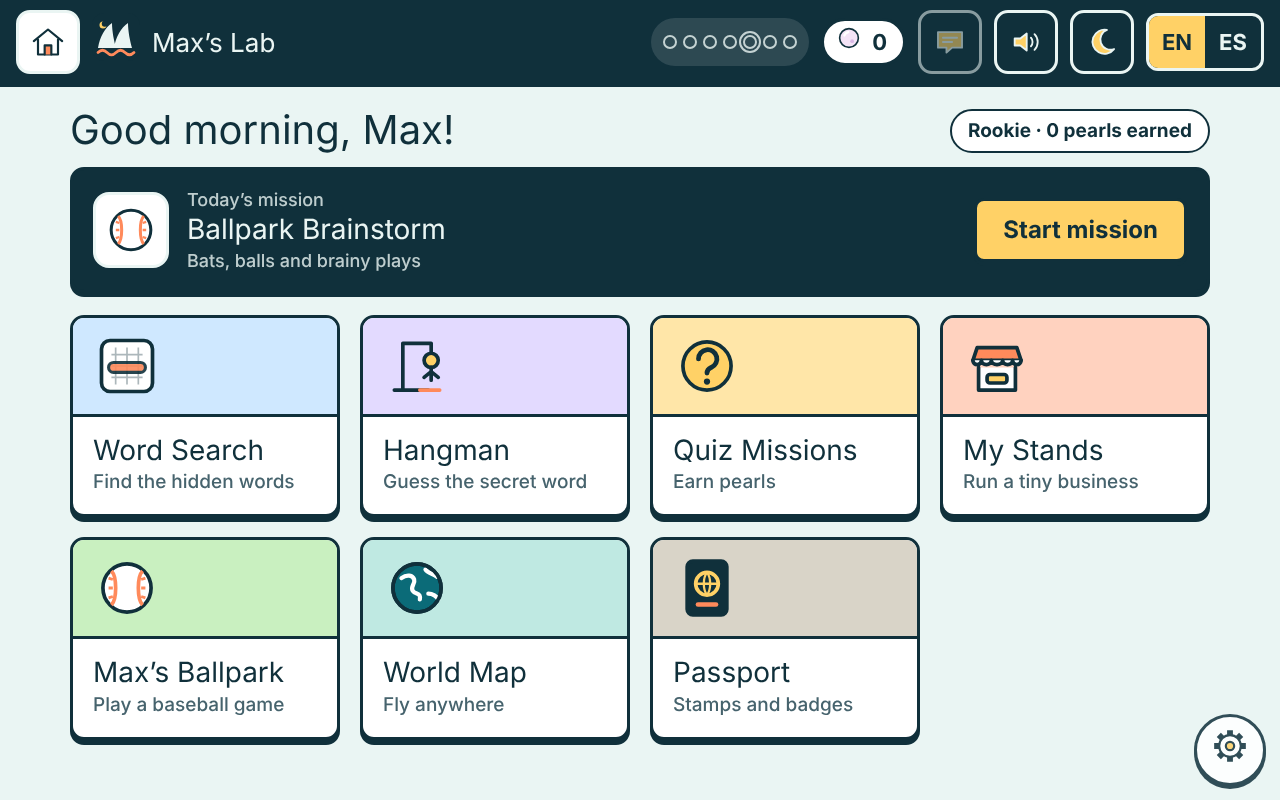
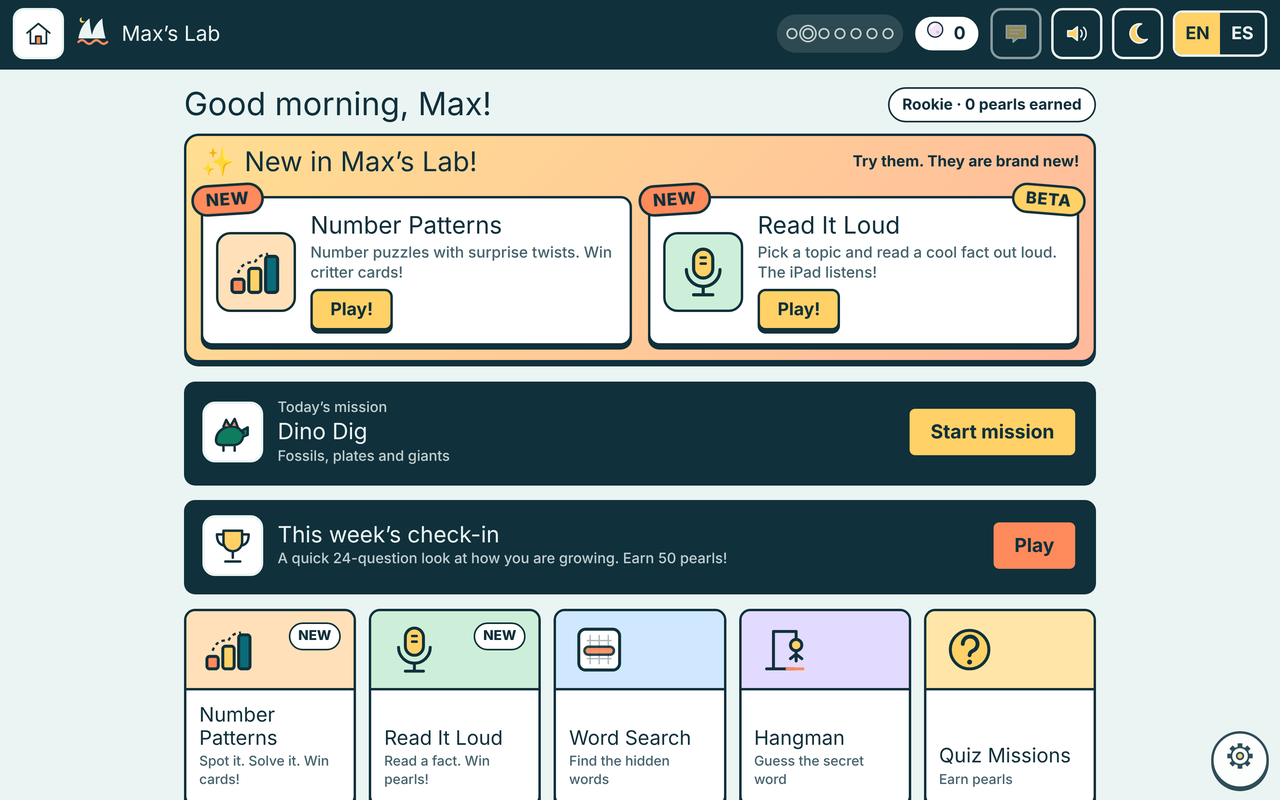
Gallery: Max's Lab card now shows the Nov 17 update (Number Patterns, Read It Loud beta)
New preview picture with the NEW shelf at the top of Home, and the note now says updated Nov 17.

Claude-Session: https://claude.ai/code/session_018hqfrC6djGXPd6YkyTGuvA

diff --git a/index.html b/index.html
@@ -56,8 +56,8 @@
           <div class="caption"><span class="name">Max’s Fun Learning Lab</span><span class="note">Current version</span></div>
         </a>
         <a class="card" href="https://rrolfe.github.io/Maxs-lab/">
-          <img src="previews/maxs-lab-v2.png" alt="Max’s Lab, the new build, home screen with word search, hangman, quiz missions, stands (lemonade, snack shack, ice cream, pizza), arcade baseball, world map and passport" width="1280" height="800">
-          <div class="caption"><span class="name">Max’s Lab</span><span class="note">New build to compare · updated Nov 11 (big Ice Cream Parlor)</span></div>
+          <img src="previews/maxs-lab-v2.png" alt="Max’s Lab, the new build, home screen with a NEW shelf on top (Number Patterns and Read It Loud beta), then word search, hangman, quiz missions, stands (lemonade, snack shack, ice cream, pizza), arcade baseball, world map and passport" width="1280" height="800">
+          <div class="caption"><span class="name">Max’s Lab</span><span class="note">New build to compare · updated Nov 17 (Number Patterns, Read It Loud beta)</span></div>
         </a>
         <a class="card" href="https://rrolfe.github.io/Websites/challenge-lab/">
           <img src="previews/challenge-lab.png" alt="Max’s Learning Lab, challenge edition: home screen with Beat the Clock, a streak and a weekly prize pot, in blue, pink, black and white" width="1280" height="800">
